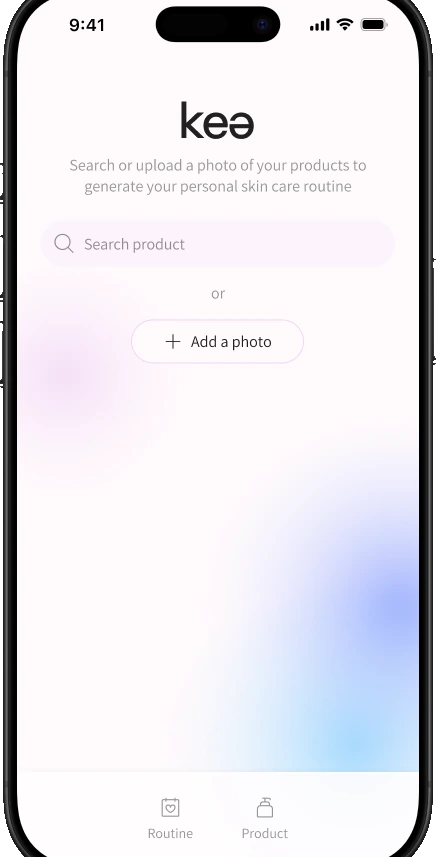
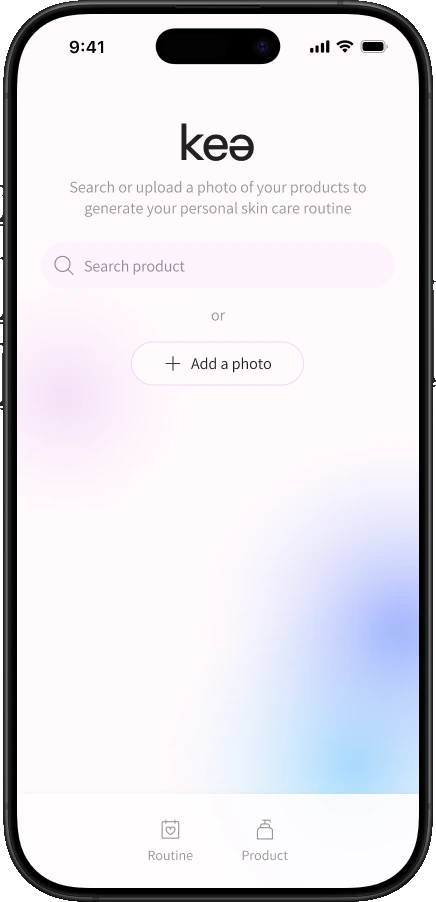
Enlarge work-section phones and fix the clipped kea onboarding phone
The single-image padding also applied to each phone in the trio; limit it
to direct images. Re-cut the kea onboarding phone using its full height.

Claude-Session: https://claude.ai/code/session_01Cu9BuBb8s48XRqsBtqWsDd

diff --git a/src/components/home/Home.module.css b/src/components/home/Home.module.css
@@ -329,18 +329,21 @@
   overflow: hidden;
   background: var(--tint);
 }
-.plate img {
+.plate > img {
   object-fit: contain;
   padding: 8%;
 }
 .platePhones {
   position: absolute;
-  inset: 8% 6%;
+  inset: 7% 4%;
   display: flex;
   justify-content: center;
 }
+.platePhones .trio {
+  gap: clamp(10px, 1.6vw, 24px);
+}
 .platePhones .phone {
-  max-width: 30%;
+  max-width: 31%;
 }
 .platePending {
   position: absolute;
@@ -549,7 +552,7 @@
       animation-timeline: view();
       animation-range: entry 0% cover 35%;
     }
-    .plate img {
+    .plate > img {
       animation: drift linear both;
       animation-timeline: view();
     }
